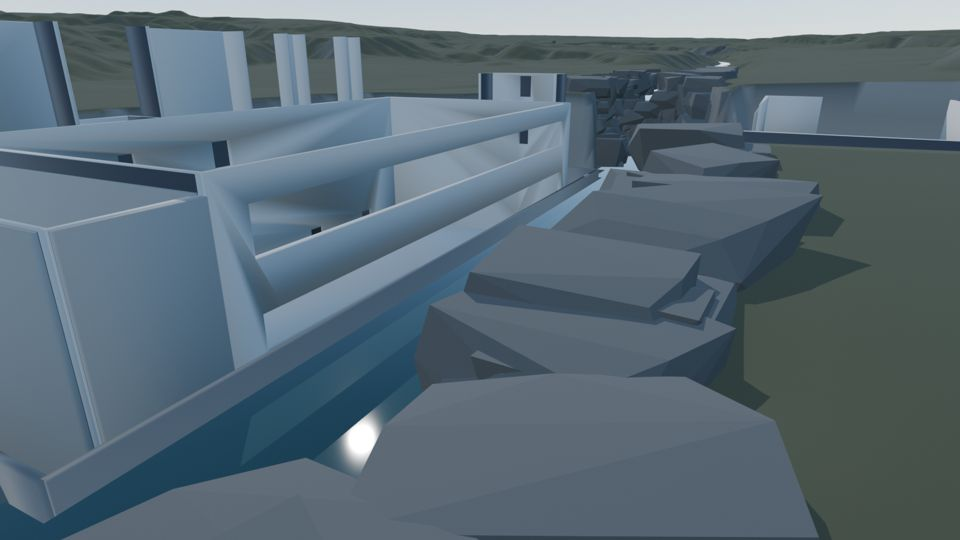
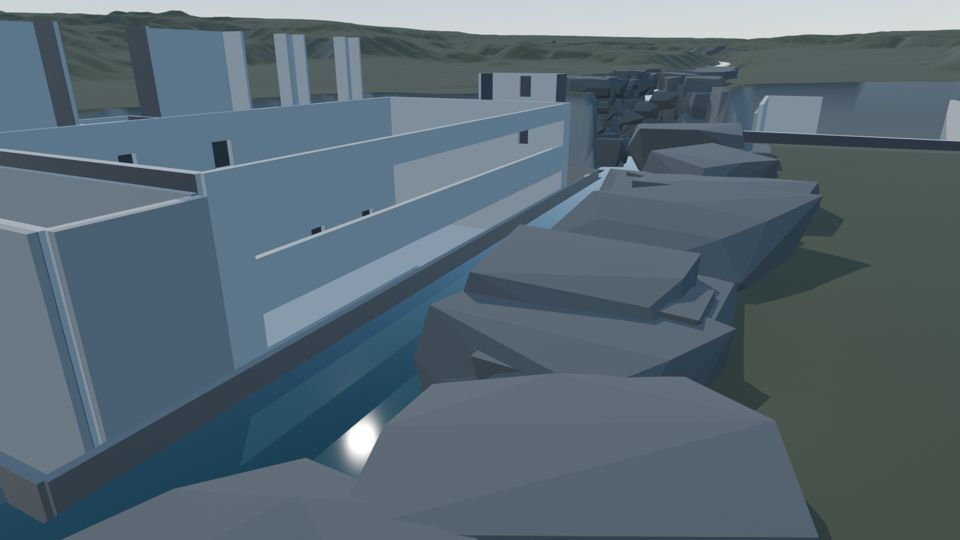
Fix shading: Blender 4.1+ makes new faces smooth unless marked flat; all hard-surface meshes now flat (construction + site scenes)
Prompt: normals look fucked
Prompt-Time: 2026-10-11T05:37:49.155Z
Session-Id: e68040ac-0e8d-48f0-85de-ee686effff1f

diff --git a/construction/bl_common.py b/construction/bl_common.py
@@ -17,8 +17,8 @@ def mesh_from(name, verts, faces, attrs=None, smooth=True, coll=None):
         me.polygons.foreach_set("loop_start", np.arange(0, faces.size, faces.shape[1]))
         me.polygons.foreach_set("loop_total", np.full(len(faces), faces.shape[1]))
     me.update()
-    if smooth and faces.size:
-        me.polygons.foreach_set("use_smooth", np.ones(len(faces), bool))
+    if faces.size:  # Blender 4.1+: faces are smooth unless explicitly marked flat
+        me.polygons.foreach_set("use_smooth", np.full(len(faces), bool(smooth)))
     for k, v in (attrs or {}).items():
         a = me.attributes.new(k, "FLOAT", "POINT"); a.data.foreach_set("value", np.asarray(v, np.float32).ravel())
     ob = bpy.data.objects.new(name, me)
@@ -148,6 +148,7 @@ def cliff_rocks(H, rock, x0, y0, exclude, rng, coll=None):
             for f in src.faces:
                 bm.faces.new([nv[v.index] for v in f.verts])
     me = bpy.data.meshes.new("cliff_rocks"); bm.to_mesh(me)
+    me.polygons.foreach_set("use_smooth", np.zeros(len(me.polygons), bool))
     ob = bpy.data.objects.new("cliff_rocks", me); (coll or bpy.context.scene.collection).objects.link(ob)
     ob.data.materials.append(material("granite", (0.09, 0.09, 0.085), rough=0.85))
     return ob

diff --git a/construction/scene.py b/construction/scene.py
@@ -142,6 +142,9 @@ CAMS = {
 }
 for n, (loc, tgt, lens) in CAMS.items():
     bc.camera(scene, f"cam_{n}", loc, tgt, lens)
+for o in bpy.data.objects:  # primitives + boolean results: flat shading for every hard-surface element
+    if o.type == "MESH" and not o.name.startswith(("terrain", "river", "falls")):
+        o.data.polygons.foreach_set("use_smooth", np.zeros(len(o.data.polygons), bool))
 bpy.ops.wm.save_as_mainfile(filepath=str(OUT / f"stage_{STAGE}.blend"))
 if RENDER:
     for n in (["site_aerial", "ravine_upstream", "site_top"] if STAGE == 0 else ["pit_overview", "pit_east", "cofferdam", "pit_floor", "site_top"]):

diff --git a/terrain/blender_scene.py b/terrain/blender_scene.py
@@ -44,8 +44,7 @@ def mesh_from(name, verts, faces, attrs=None, smooth=True):
     me.polygons.foreach_set("loop_start", np.arange(0, faces.size, faces.shape[1]))
     me.polygons.foreach_set("loop_total", np.full(len(faces), faces.shape[1]))
     me.update()
-    if smooth:
-        me.polygons.foreach_set("use_smooth", np.ones(len(faces), bool))
+    me.polygons.foreach_set("use_smooth", np.full(len(faces), bool(smooth)))  # Blender 4.1+: explicit flat/smooth
     for k, v in (attrs or {}).items():
         a = me.attributes.new(k, "FLOAT", "POINT")
         a.data.foreach_set("value", np.asarray(v, np.float32).ravel())
